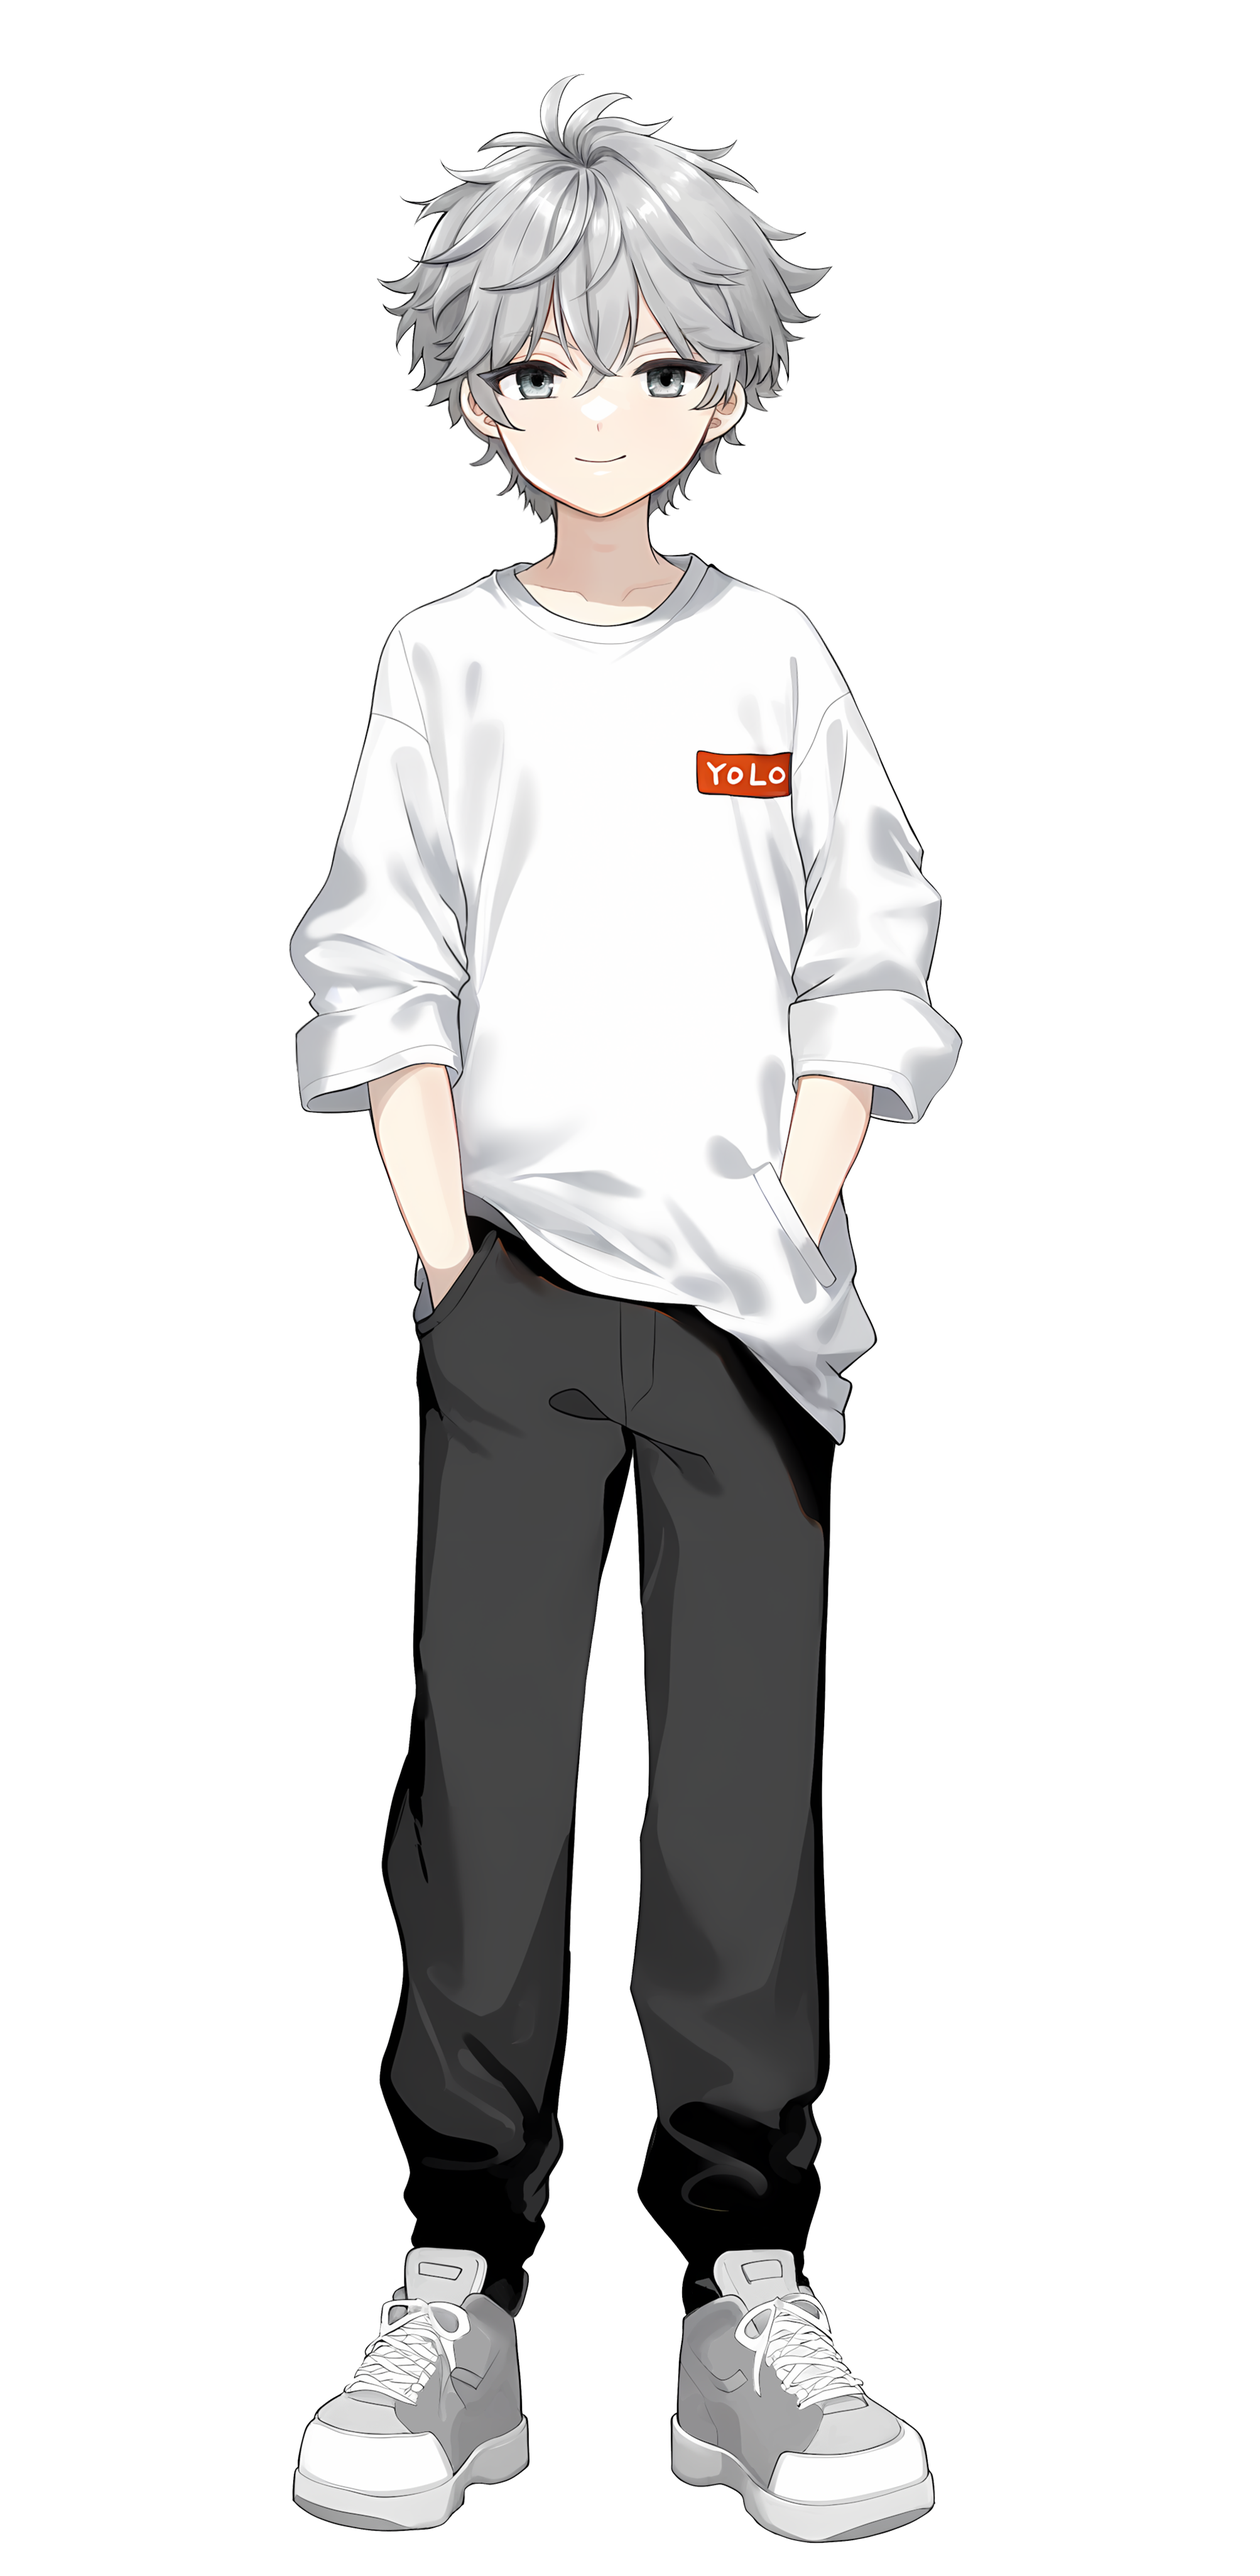
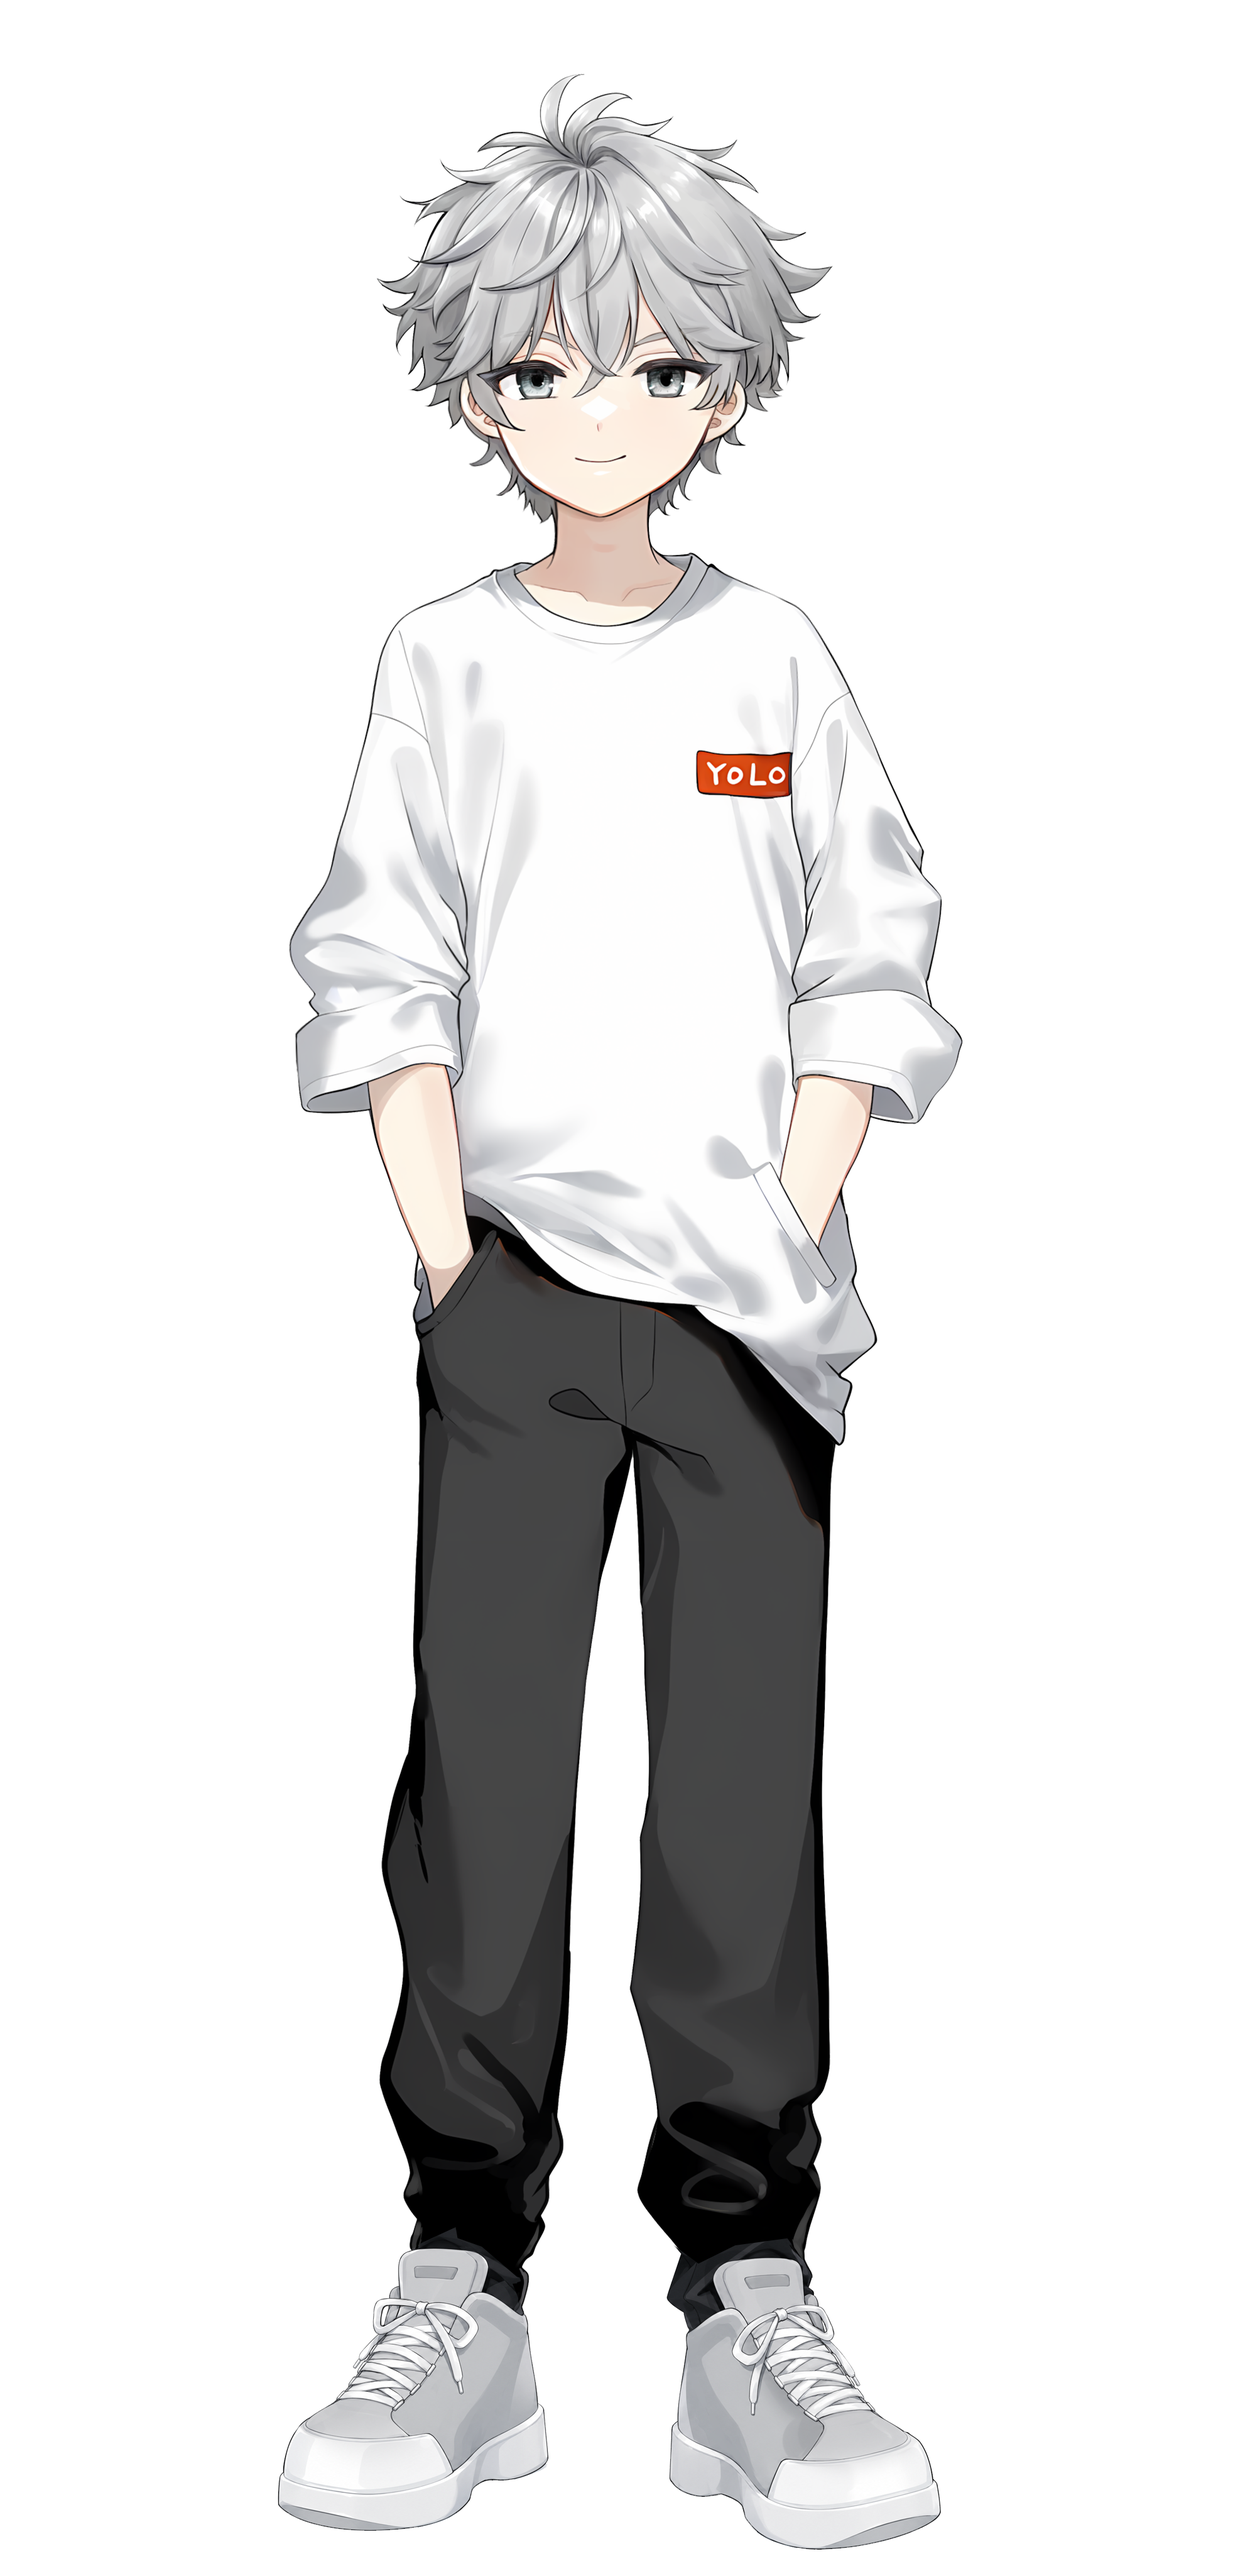
update

Changed region(s): [[0.5254, 0.8433, 0.7418, 0.9995], [0.2164, 0.8433, 0.4327, 0.9995]]

diff --git a/starq_soft/src/pages/lscContent.ts b/starq_soft/src/pages/lscContent.ts
@@ -130,8 +130,8 @@ export const lscContent: Partial<Record<LanguageCode, LscContent>> = {
         { label: `パブリッシャー`, value: `Pairaki Games` },
         { label: `シナリオ／キャラクターデザイン`, value: `星可` },
         { label: `原画ＣＧ／SD／背景`, value: `眞海` },
-        { label: `主題歌`, value: `「Startup!★Start!!」by Wedoso` },
-        { label: `音楽`, value: `Wedoso` },
+        { label: `主題歌`, value: `「Startup!★Start!!」by Wedoso, iason` },
+        { label: `音楽`, value: `Wedoso, iason` },
         { label: `ムービー`, value: `星可` },
         { label: `動効`, value: `幽浮小花` },
         { label: `協力`, value: `終焉、 y3 ほか` },
@@ -346,8 +346,8 @@ export const lscContent: Partial<Record<LanguageCode, LscContent>> = {
         { label: `Publisher`, value: `Pairaki Games` },
         { label: `Scenario / Character Design`, value: `星可` },
         { label: `Art CG / SD / Backgrounds`, value: `眞海` },
-        { label: `Theme Song`, value: `"Startup!★Start!!" by Wedoso` },
-        { label: `Music`, value: `Wedoso` },
+        { label: `Theme Song`, value: `"Startup!★Start!!" by Wedoso, iason` },
+        { label: `Music`, value: `Wedoso, iason` },
         { label: `Movie`, value: `星可` },
         { label: `Motion Effects`, value: `幽浮小花` },
         { label: `Additional Support`, value: `終焉， y3 et al.` },
@@ -562,8 +562,8 @@ export const lscContent: Partial<Record<LanguageCode, LscContent>> = {
         { label: `发行`, value: `Pairaki Games` },
         { label: `剧本／角色设计`, value: `星可` },
         { label: `原画CG／SD／背景`, value: `眞海` },
-        { label: `主题曲`, value: `「Startup!★Start!!」by Wedoso` },
-        { label: `音乐`, value: `Wedoso` },
+        { label: `主题曲`, value: `「Startup!★Start!!」by Wedoso, iason` },
+        { label: `音乐`, value: `Wedoso, iason` },
         { label: `影片`, value: `星可` },
         { label: `动效`, value: `幽浮小花` },
         { label: `协力`, value: `终焉 等` },
@@ -776,8 +776,8 @@ export const lscContent: Partial<Record<LanguageCode, LscContent>> = {
         { label: `發行`, value: `Pairaki Games` },
         { label: `劇本／角色設計`, value: `星可` },
         { label: `原畫CG／SD／背景`, value: `眞海` },
-        { label: `主題曲`, value: `「Startup!★Start!!」by Wedoso` },
-        { label: `音樂`, value: `Wedoso` },
+        { label: `主題曲`, value: `「Startup!★Start!!」by Wedoso, iason` },
+        { label: `音樂`, value: `Wedoso, iason` },
         { label: `影片`, value: `星可` },
         { label: `動效`, value: `幽浮小花` },
         { label: `協力`, value: `終焉、 y3 等` },
@@ -1042,11 +1042,11 @@ export const lscContent: Partial<Record<LanguageCode, LscContent>> = {
         },
         {
           "label": "주제가",
-          "value": "「Startup!★Start!!」by Wedoso"
+          "value": "「Startup!★Start!!」by Wedoso, iason"
         },
         {
           "label": "음악",
-          "value": "Wedoso"
+          "value": "Wedoso, iason"
         },
         {
           "label": "영상",
@@ -1402,11 +1402,11 @@ export const lscContent: Partial<Record<LanguageCode, LscContent>> = {
         },
         {
           "label": "Tema principal",
-          "value": "「Startup!★Start!!」by Wedoso"
+          "value": "「Startup!★Start!!」by Wedoso, iason"
         },
         {
           "label": "Música",
-          "value": "Wedoso"
+          "value": "Wedoso, iason"
         },
         {
           "label": "Vídeo",
@@ -1762,11 +1762,11 @@ export const lscContent: Partial<Record<LanguageCode, LscContent>> = {
         },
         {
           "label": "Главная песня",
-          "value": "「Startup!★Start!!」by Wedoso"
+          "value": "「Startup!★Start!!」by Wedoso, iason"
         },
         {
           "label": "Музыка",
-          "value": "Wedoso"
+          "value": "Wedoso, iason"
         },
         {
           "label": "Видео",
@@ -2122,11 +2122,11 @@ export const lscContent: Partial<Record<LanguageCode, LscContent>> = {
         },
         {
           "label": "Ca khúc chủ đề",
-          "value": "「Startup!★Start!!」by Wedoso"
+          "value": "「Startup!★Start!!」by Wedoso, iason"
         },
         {
           "label": "Âm nhạc",
-          "value": "Wedoso"
+          "value": "Wedoso, iason"
         },
         {
           "label": "Video",
@@ -2482,11 +2482,11 @@ export const lscContent: Partial<Record<LanguageCode, LscContent>> = {
         },
         {
           "label": "Chanson thème",
-          "value": "「Startup!★Start!!」by Wedoso"
+          "value": "「Startup!★Start!!」by Wedoso, iason"
         },
         {
           "label": "Musique",
-          "value": "Wedoso"
+          "value": "Wedoso, iason"
         },
         {
           "label": "Vidéo",
@@ -2842,11 +2842,11 @@ export const lscContent: Partial<Record<LanguageCode, LscContent>> = {
         },
         {
           "label": "Sigla",
-          "value": "「Startup!★Start!!」by Wedoso"
+          "value": "「Startup!★Start!!」by Wedoso, iason"
         },
         {
           "label": "Musica",
-          "value": "Wedoso"
+          "value": "Wedoso, iason"
         },
         {
           "label": "Video",
@@ -3202,11 +3202,11 @@ export const lscContent: Partial<Record<LanguageCode, LscContent>> = {
         },
         {
           "label": "Titelsong",
-          "value": "「Startup!★Start!!」by Wedoso"
+          "value": "「Startup!★Start!!」by Wedoso, iason"
         },
         {
           "label": "Musik",
-          "value": "Wedoso"
+          "value": "Wedoso, iason"
         },
         {
           "label": "Video",
@@ -3562,11 +3562,11 @@ export const lscContent: Partial<Record<LanguageCode, LscContent>> = {
         },
         {
           "label": "เพลงธีม",
-          "value": "「Startup!★Start!!」by Wedoso"
+          "value": "「Startup!★Start!!」by Wedoso, iason"
         },
         {
           "label": "ดนตรี",
-          "value": "Wedoso"
+          "value": "Wedoso, iason"
         },
         {
           "label": "วิดีโอ",
@@ -3922,11 +3922,11 @@ export const lscContent: Partial<Record<LanguageCode, LscContent>> = {
         },
         {
           "label": "Lagu Tema",
-          "value": "「Startup!★Start!!」by Wedoso"
+          "value": "「Startup!★Start!!」by Wedoso, iason"
         },
         {
           "label": "Muzik",
-          "value": "Wedoso"
+          "value": "Wedoso, iason"
         },
         {
           "label": "Video",
